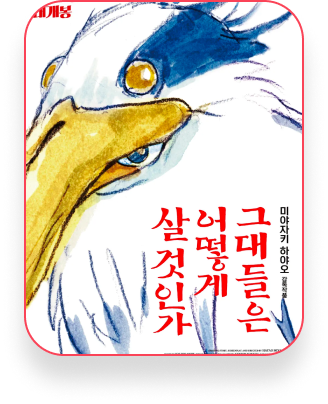
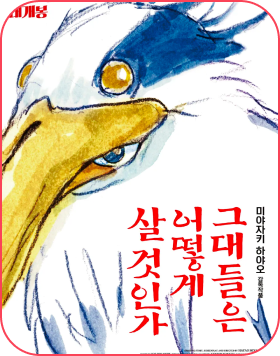
fix : poster 크기 수정, padding 조정

diff --git a/src/components/SelectTime/MovieInfo.tsx b/src/components/SelectTime/MovieInfo.tsx
@@ -2,14 +2,14 @@ import { useState } from 'react';
 import styled from 'styled-components';
 
 import ALLImgUrl from '../../assets/image/img_all.png';
-import PosterImgUrl from '../../assets/image/img_moviedetail1.png';
+import PosterImgUrl from '../../assets/image/img_moviedetail1@2x.png';
 import SelectTimeHeader from './SelectTimeHeader';
 
 const DATA = {
   id: 1,
   title: '그대들은 어떻게 살 것인가',
   content:
-    '화재로 어머니를 잃은 11살 소년 ‘마히토’는 아버지와 함께 어머니의 고향으로 간다. 어머니에 대한 그리움과 새로운 보금자리에 적응하느라 힘들어하던 ‘마히토’ 앞에 정체를 알 수 없는 왜가리 한 마리가 나타나고, 저택에서 일하는 일곱 할멈으로부터 왜가리가 살고 있는 탑에 대한 신비로운 이야기를 듣게 된다. 그러던 어느 날, ‘마히토’는 사라져버린 새엄마 ‘나츠코’를 찾기 위해 탑으로 들어가고, 왜가리가 안내하는 대로 이세계(異世界)의 문을 통과하는데…!',
+    '화재로 어머니를 잃은 11살 소년 ‘마히토’는 아버지와 함께 어머니의 고향으로 간다. 어머니에 대한 그리움과 새로운 보금자리에 적응하느라 힘들어하던 ‘마히토’ 앞에 정체를 알 수 없는 왜가리 한 마리가 나타나고, 저택에서 일하는 일곱 할멈으로부터 왜가리가 살고 있는 탑에 대한 신비로운 이야기를 듣게 된다. 그러던 어느 날, ‘마히토’는 사라져버린 새엄마 ‘나츠코’를 찾기 위해 탑으로 들어가고, 왜가리가 안내하는 대로 이세계의 문을 통과하는데…!',
   date: '2023.10.25',
   genre: '애니메이션',
   country: '일본',
@@ -67,14 +67,18 @@ const St = {
 
   MovieInfo: styled.div`
     display: flex;
+    gap: 1.2rem;
+
     width: 37.5rem;
-    padding: 0.5rem 0.16rem;
+    padding: 0.5rem 1.6rem;
 
     heigth: 21.5rem;
   `,
 
   Poster: styled.img`
     flex-shrink: 0;
+    width: 14rem;
+    height: 17.8rem;
   `,
 
   InfoContent: styled.div`
@@ -91,7 +95,9 @@ const St = {
     display: flex;
     gap: 0.6rem;
     align-items: center;
+
     margin-bottom: 0.5rem;
+    padding-top: 1.1rem;
   `,
 
   AllImg: styled.img`
@@ -120,16 +126,20 @@ const St = {
     overflow: hidden;
 
     width: 19.1rem;
-    height: 8.2rem;
+    height: 7.2rem;
+    margin-bottom: 1rem;
 
     text-overflow: ellipsis;
     white-space: break-spaces;
+    ${({ theme }) => theme.fonts.body_regular_10};
   `,
 
   MovieContentShow: styled.p`
     overflow: scroll;
     width: 19.1rem;
-    height: 8.2rem;
+    height: 7.2rem;
+    margin-bottom: 1rem;
+    ${({ theme }) => theme.fonts.body_regular_10};
   `,
 
   ViewMoreBtn: styled.button`
